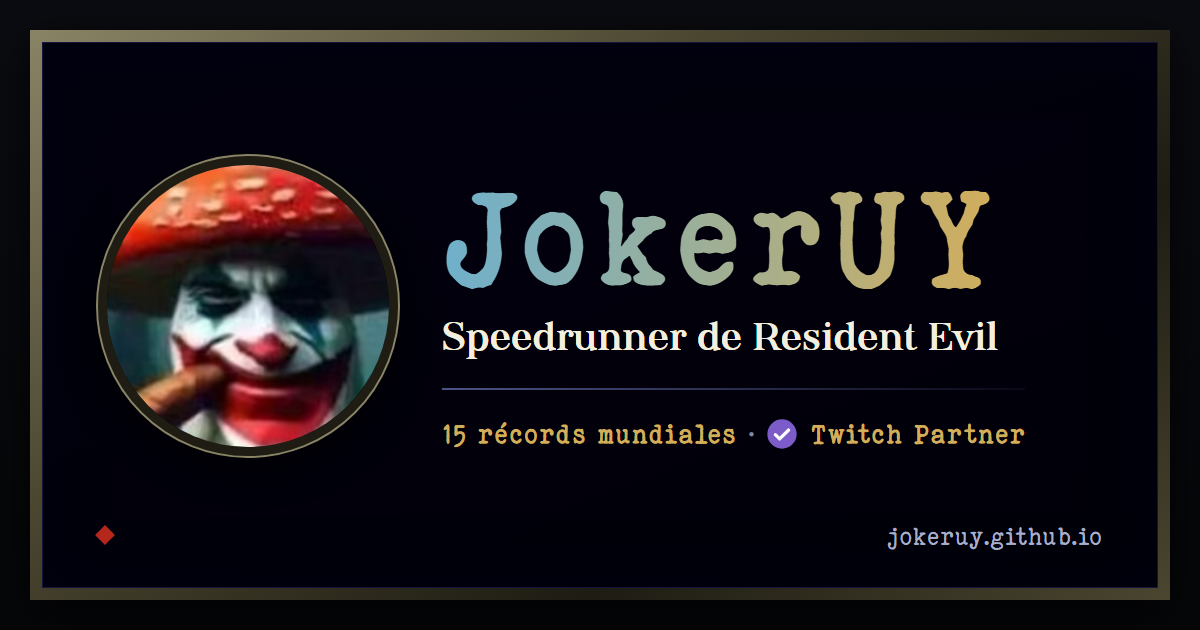
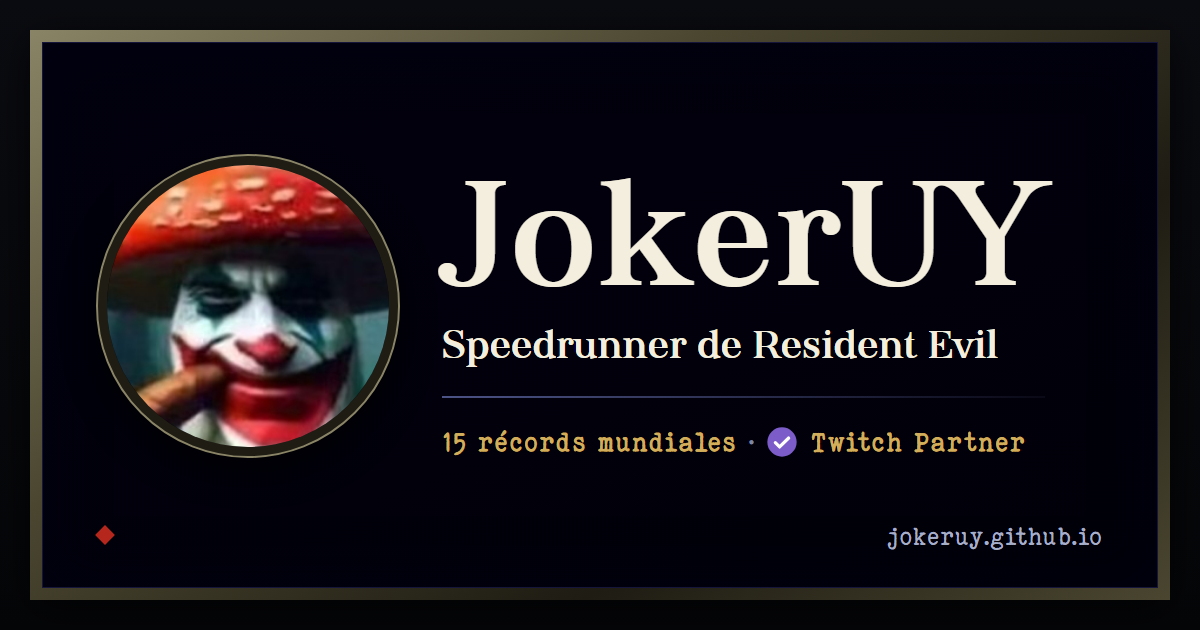
Nombre en tipografia serif monocromatica (pagina e imagen para compartir)

diff --git a/scripts/og-image.html b/scripts/og-image.html
@@ -16,7 +16,7 @@ body { position: relative; font-family: 'Virgula Vulgaris', Georgia, serif; colo
 .avatar { flex: none; width: 300px; height: 300px; overflow: hidden; border-radius: 50%; background: #050609; border: 9px solid #1E1C13; outline: 2px solid #8A8466; box-shadow: 0 14px 34px rgba(0, 0, 0, .7); }
 .avatar img { width: 100%; height: 100%; object-fit: cover; display: block; transform: scale(1.5); transform-origin: 72% 20%; }
 .txt { min-width: 0; }
-h1 { margin: 0 0 6px; font-family: 'Elegant Typewriter', 'Courier New', monospace; font-weight: 700; font-size: 138px; line-height: 1.05; letter-spacing: .01em; display: inline-block; background: linear-gradient(90deg, #6FB0CC, #D1AE5C); -webkit-background-clip: text; background-clip: text; color: transparent; }
+h1 { margin: 0 0 8px; font-family: 'Virgula Vulgaris', Georgia, serif; font-weight: 700; font-size: 150px; line-height: 1.05; letter-spacing: .015em; color: #F3EEDD; }
 .sub { margin: 0 0 28px; font-size: 40px; line-height: 1.2; color: #F3EEDD; white-space: nowrap; }
 .rule { height: 2px; width: 100%; margin-bottom: 28px; background: linear-gradient(90deg, rgba(150, 165, 255, .5), rgba(150, 165, 255, .05)); }
 .stat { display: flex; align-items: center; gap: 12px; font-family: 'Elegant Typewriter', 'Courier New', monospace; font-weight: 700; font-size: 28px; color: #D1AE5C; white-space: nowrap; }

diff --git a/index.html b/index.html
@@ -64,7 +64,7 @@ a:focus-visible, button:focus-visible { outline: 2px solid var(--gold); outline-
 .head { display: grid; grid-template-columns: auto 1fr; gap: 1.5rem; align-items: center; padding: .4rem 0 1.4rem; }
 .avatar-box { width: 150px; height: 150px; display: block; overflow: hidden; border-radius: 50%; background: var(--bg); border: 4px solid var(--iron-dark); outline: 1px solid var(--iron-hi); box-shadow: 0 8px 20px rgba(0, 0, 0, .65); }
 .avatar { width: 100%; height: 100%; object-fit: cover; display: block; transform: scale(1.5); transform-origin: 72% 20%; }
-h1 { margin: 0 0 .25rem; font-family: var(--f-type); font-weight: 700; font-size: clamp(2.4rem, 8vw, 3.7rem); letter-spacing: .01em; line-height: 1.05; display: inline-block; background: linear-gradient(90deg, #6FB0CC, #D1AE5C); -webkit-background-clip: text; background-clip: text; color: transparent; filter: drop-shadow(0 2px 0 rgba(0, 0, 0, .55)); }
+h1 { margin: 0 0 .3rem; font-family: var(--f-serif); font-weight: 700; font-size: clamp(2.7rem, 9vw, 4.1rem); letter-spacing: .015em; line-height: 1.05; color: var(--cream); }
 .tagline { margin: 0 0 .9rem; font-size: 1.05rem; }
 .links { display: flex; gap: .55rem; flex-wrap: wrap; }
 .status .st { display: block; }
